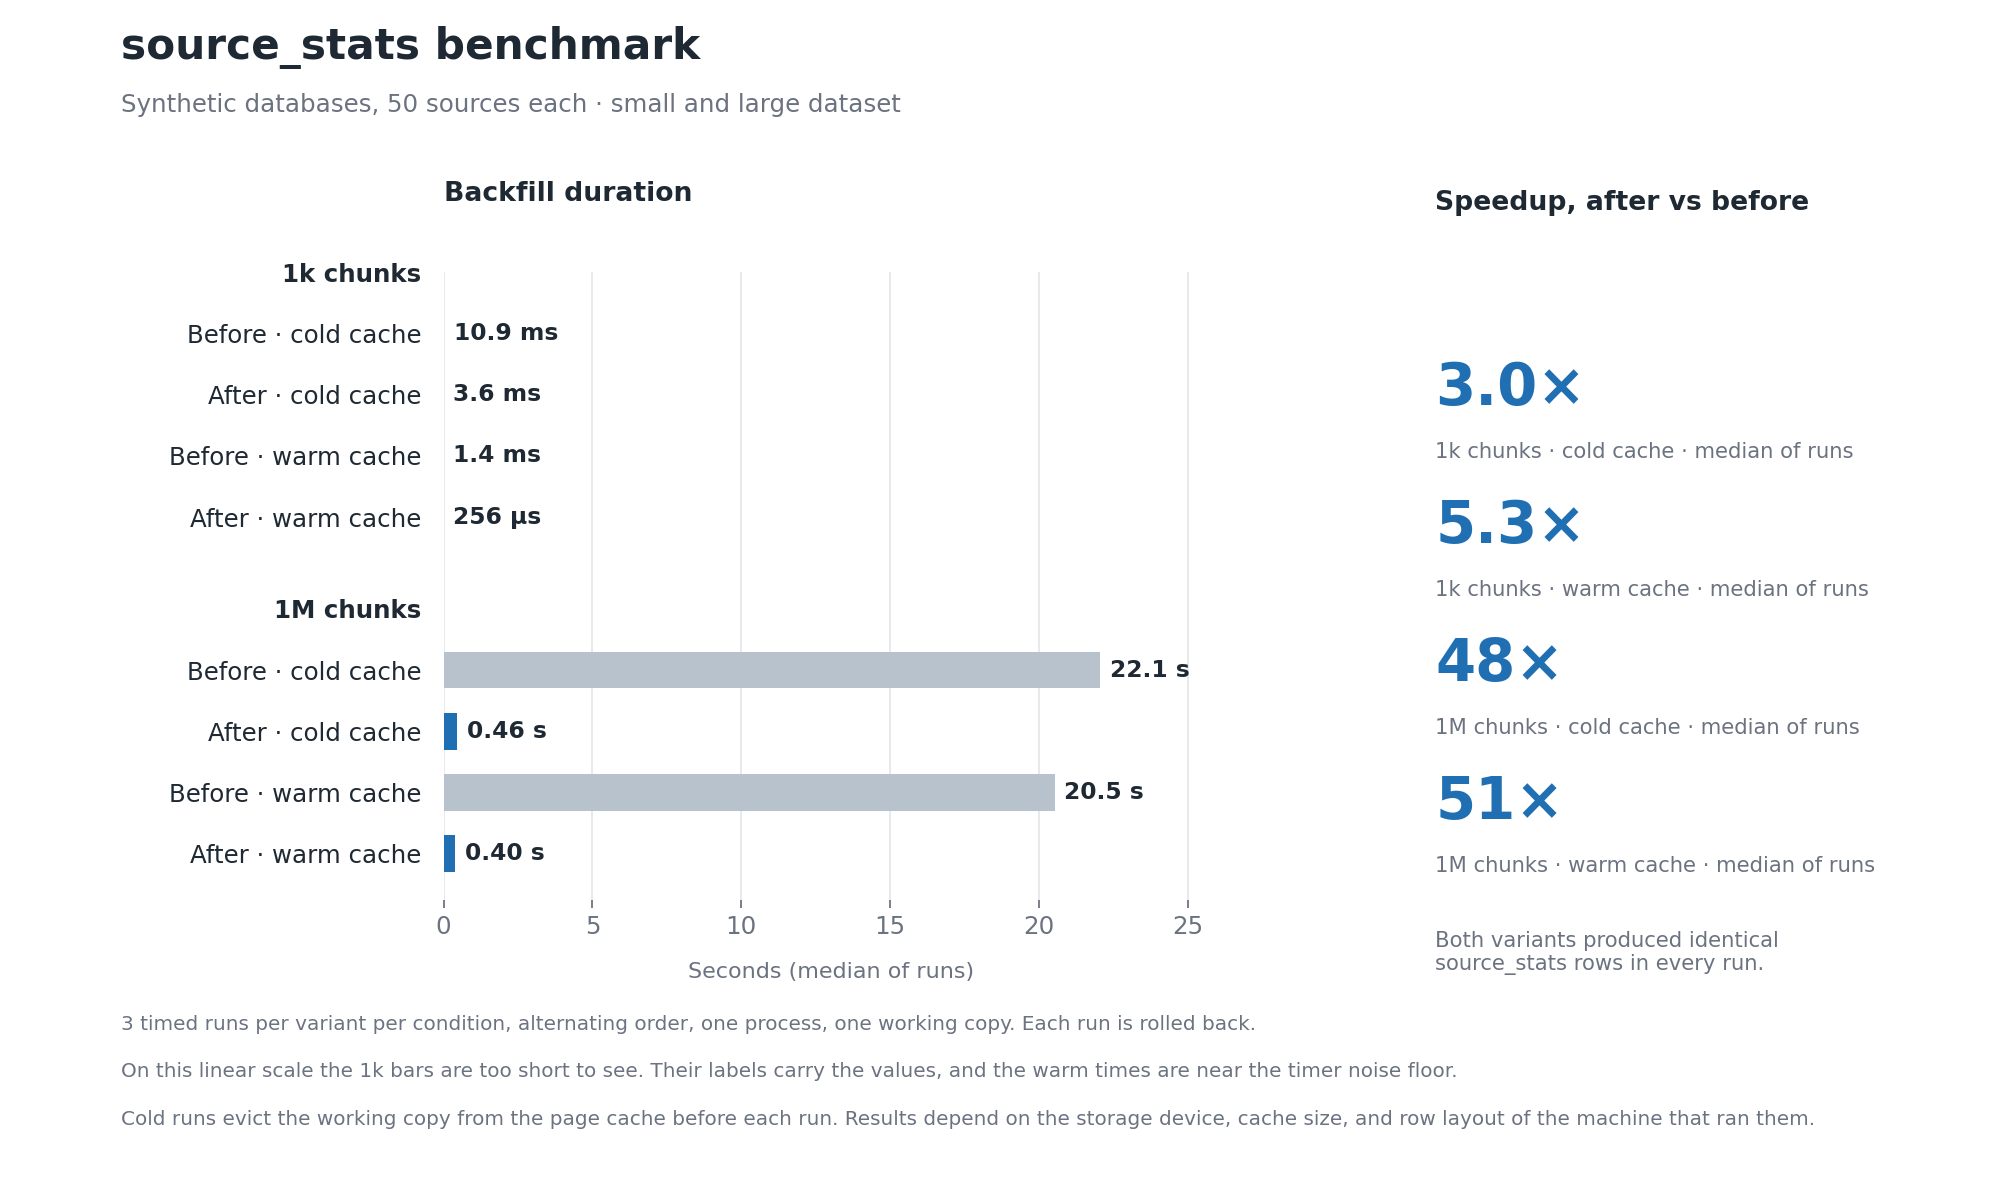
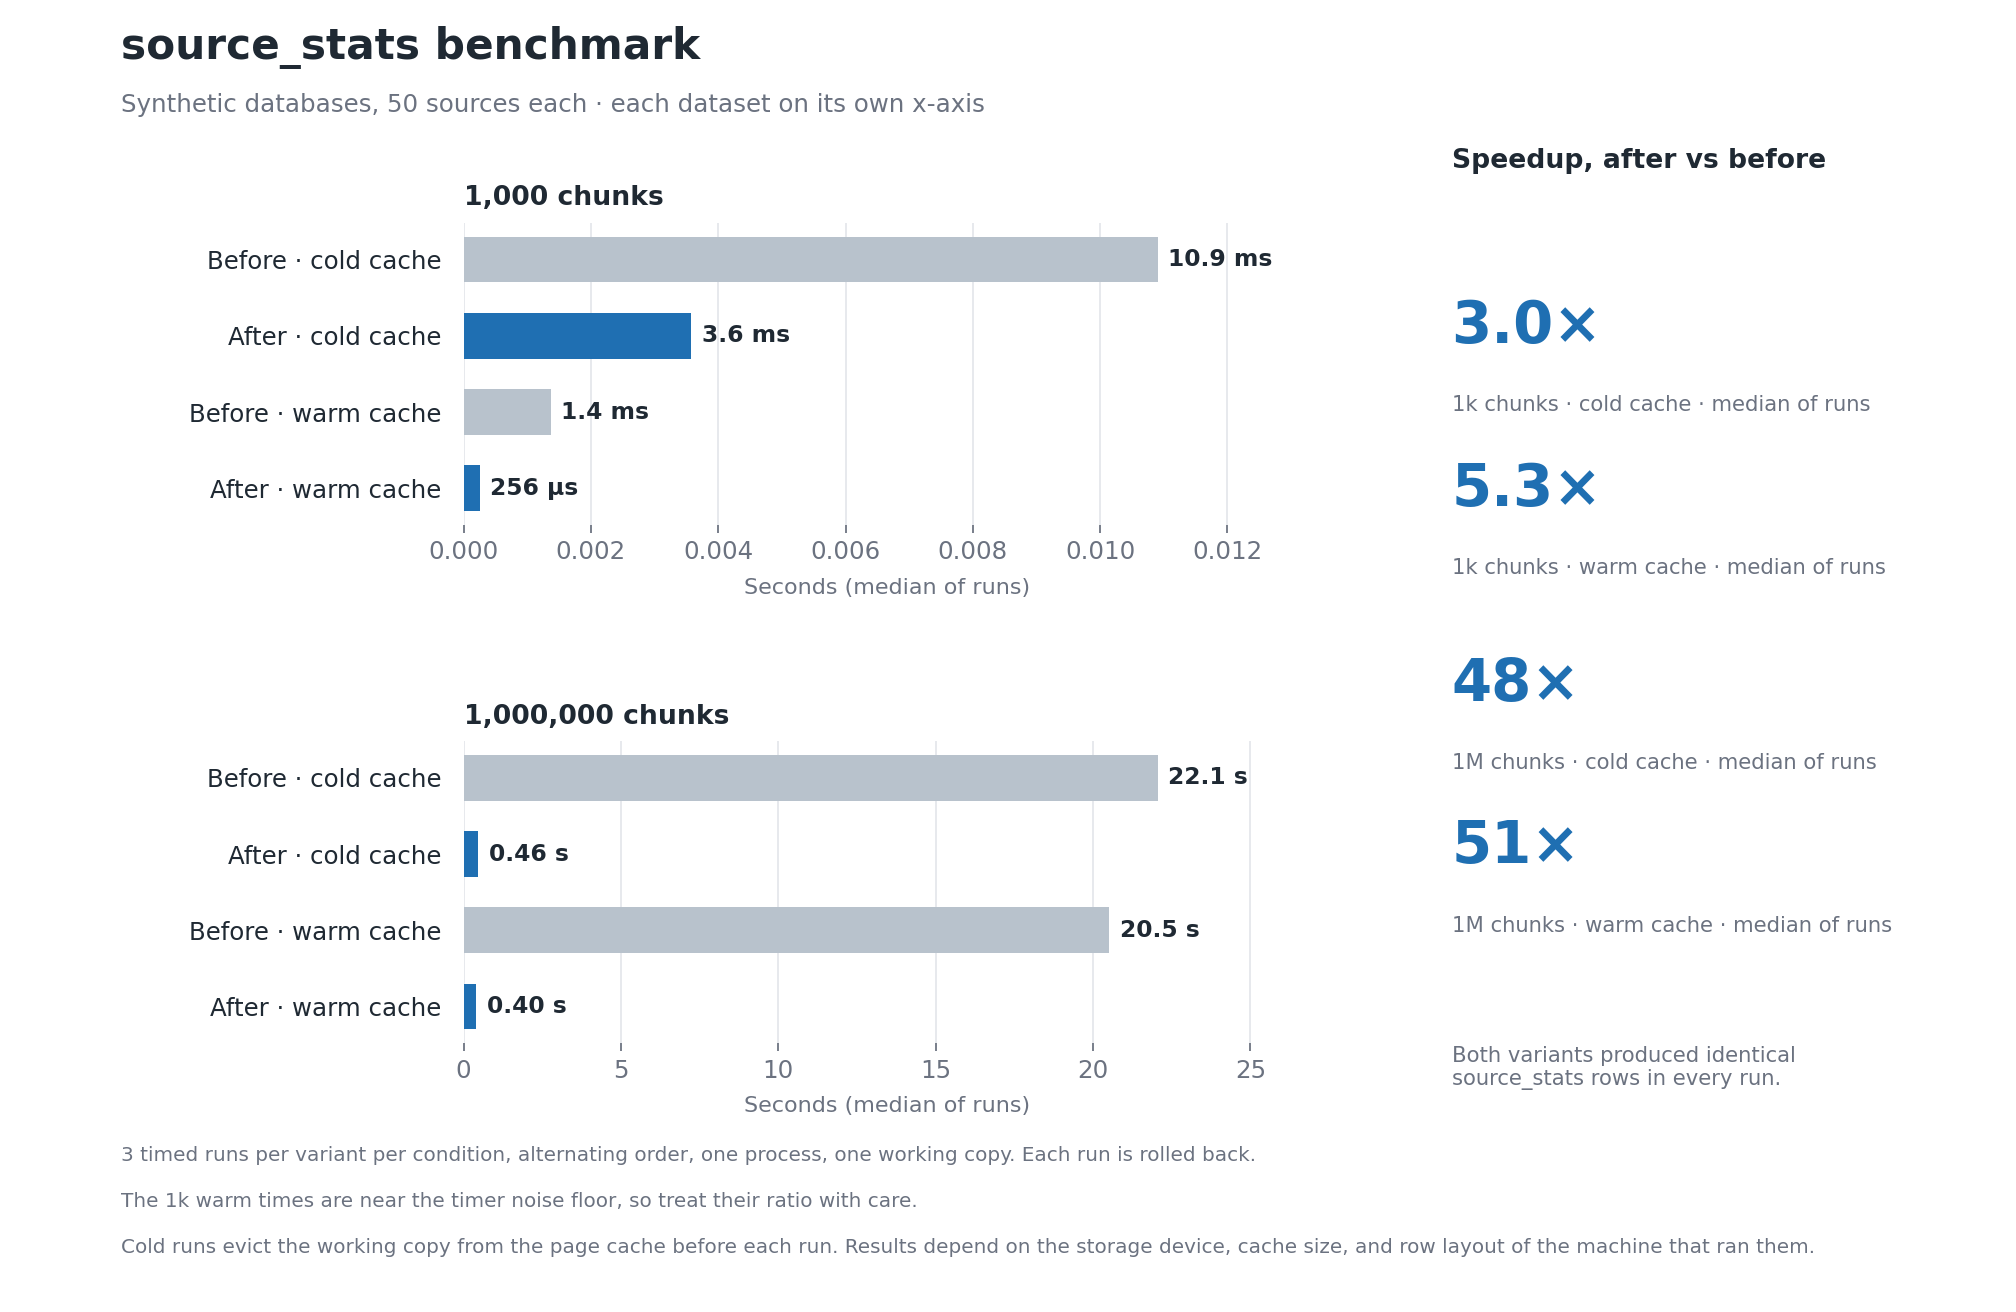
docs: give each benchmark dataset its own x-axis
The 1k and 1M chunk datasets are drawn in separate panels, so the millisecond
bars are readable without shrinking the second-scale bars.

diff --git a/benchmarks/source-stats-backfill/make_chart.py b/benchmarks/source-stats-backfill/make_chart.py
@@ -1,9 +1,9 @@
 """Render source-stats-backfill.png from results.json.
 
+Each dataset gets its own panel and its own linear x-axis.
 Usage: python3 make_chart.py   (writes source-stats-backfill.png next to this file)
 """
 import json
-import math
 from pathlib import Path
 
 import matplotlib
@@ -32,90 +32,90 @@ order = [k for k in ("small", "large") if k in datasets]
 runs = datasets[order[0]]["conditions"]["cold"]["runs_per_variant"]
 sources = datasets[order[0]]["dataset"]["sources"]
 
-rows = []  # (label, median seconds or None for a header, color, group)
-for key in order:
+
+def fmt(v):
+    if v >= 10:
+        return f"{v:.1f} s"
+    if v >= 0.1:
+        return f"{v:.2f} s"
+    if v >= 0.001:
+        return f"{v * 1000:.1f} ms"
+    return f"{v * 1e6:.0f} µs"
+
+
+def bars_for(key):
     ds = datasets[key]
-    rows.append((DATASET_LABELS.get(key, key), None, None, key))
+    out = []
     for cond in ("cold", "warm"):
         cname = "cold cache" if cond == "cold" else "warm cache"
         variants = ds["conditions"][cond]["variants"]
-        rows.append((f"Before · {cname}", variants["before"]["median"], NEUTRAL, key))
-        rows.append((f"After · {cname}", variants["after"]["median"], ACCENT, key))
+        out.append((f"Before · {cname}", variants["before"]["median"], NEUTRAL))
+        out.append((f"After · {cname}", variants["after"]["median"], ACCENT))
+    return out
 
-fig = plt.figure(figsize=(12.6, 7.4), facecolor='white')
-gs = fig.add_gridspec(1, 2, width_ratios=[1.55, 1], wspace=0.34,
-                      left=0.22, right=0.96, top=0.77, bottom=0.24)
-ax = fig.add_subplot(gs[0, 0])
-ax2 = fig.add_subplot(gs[0, 1])
 
-fig.text(0.06, 0.95, 'source_stats benchmark', fontsize=19, fontweight='bold', color=INK)
-fig.text(0.06, 0.905, f'Synthetic databases, {sources} sources each · small and large dataset',
+def draw(ax, key):
+    bars = bars_for(key)
+    values = [b[1] for b in bars]
+    ax.barh(range(len(bars)), values, height=0.6, color=[b[2] for b in bars], edgecolor='none')
+    ax.invert_yaxis()
+    ax.set_yticks(range(len(bars)), [b[0] for b in bars])
+    ax.tick_params(axis='y', length=0, pad=10)
+    top = max(values)
+    ax.set_xlim(0, top * 1.22)
+    ax.set_xlabel('Seconds (median of runs)', fontsize=10, color=MUTED, labelpad=6)
+    ax.xaxis.grid(True, color=GRID, linewidth=0.8)
+    ax.set_axisbelow(True)
+    for spine in ax.spines.values():
+        spine.set_visible(False)
+    for i, v in enumerate(values):
+        ax.text(v + top * 0.015, i, fmt(v), ha='left', va='center', fontweight='bold', fontsize=10.5)
+    ds = datasets[key]["dataset"]
+    ax.set_title(f"{ds['chunks']:,} chunks",
+                 loc='left', fontsize=12, fontweight='bold', color=INK, pad=8)
+
+
+fig = plt.figure(figsize=(12.6, 8.2), facecolor='white')
+fig.text(0.06, 0.955, 'source_stats benchmark', fontsize=19, fontweight='bold', color=INK)
+fig.text(0.06, 0.915, f'Synthetic databases, {sources} sources each · each dataset on its own x-axis',
          fontsize=11, color=MUTED)
 
-y_positions = []
-y = 0
-prev_group = None
-for label, value, color, group in rows:
-    if prev_group is not None and group != prev_group:
-        y += 0.5  # gap between dataset groups
-    y_positions.append(y)
-    prev_group = group
-    y += 1
+# Two stacked panels on the left, each with its own x-axis
+panel_rects = {
+    order[0]: [0.23, 0.60, 0.42, 0.23],
+    order[-1]: [0.23, 0.205, 0.42, 0.23],
+}
+for key in order:
+    ax = fig.add_axes(panel_rects[key])
+    draw(ax, key)
 
-bars = [(yp, r) for yp, r in zip(y_positions, rows) if r[1] is not None]
-values = [r[1] for _, r in bars]
-ax.barh([yp for yp, _ in bars], values, height=0.6, color=[r[2] for _, r in bars], edgecolor='none')
-ax.invert_yaxis()
-ax.set_yticks(y_positions, [r[0] for r in rows])
-for tick, r in zip(ax.get_yticklabels(), rows):
-    if r[1] is None:
-        tick.set_fontweight('bold')
-        tick.set_color(INK)
-ax.tick_params(axis='y', length=0, pad=10)
-ax.set_xlim(0, max(values) * 1.18)
-ax.set_xlabel('Seconds (median of runs)', fontsize=10, color=MUTED, labelpad=10)
-ax.xaxis.grid(True, color=GRID, linewidth=0.8)
-ax.set_axisbelow(True)
-for spine in ax.spines.values():
-    spine.set_visible(False)
-for (yp, _), v in zip(bars, values):
-    if v >= 10:
-        label = f'{v:.1f} s'
-    elif v >= 0.1:
-        label = f'{v:.2f} s'
-    elif v >= 0.001:
-        label = f'{v * 1000:.1f} ms'
-    else:
-        label = f'{v * 1e6:.0f} µs'
-    ax.text(v + max(values) * 0.015, yp, label, ha='left', va='center', fontweight='bold', fontsize=10.5)
-
-fig.text(0.22, 0.83, 'Backfill duration', fontsize=12, fontweight='bold')
-
+# Right: speedup per dataset and cache condition
+ax2 = fig.add_axes([0.72, 0.215, 0.25, 0.62])
 ax2.set_axis_off()
-ax2.text(0, 1.10, 'Speedup, after vs before', transform=ax2.transAxes,
+ax2.text(0, 1.06, 'Speedup, after vs before', transform=ax2.transAxes,
          fontsize=12, fontweight='bold', ha='left', color=INK)
-panel = []
+entries = []
 for key in order:
     name = DATASET_LABELS.get(key, key)
     for cond in ("cold", "warm"):
         c = datasets[key]["conditions"][cond]
-        panel.append((f"{c['ratio_of_medians']:.0f}×" if c['ratio_of_medians'] >= 10
-                      else f"{c['ratio_of_medians']:.1f}×",
-                      f"{name} · {'cold' if cond == 'cold' else 'warm'} cache · median of runs"))
-positions = [0.86, 0.64, 0.42, 0.20]
-for (big, small_label), ypos in zip(panel, positions):
+        ratio = c["ratio_of_medians"]
+        big = f"{ratio:.0f}×" if ratio >= 10 else f"{ratio:.1f}×"
+        entries.append((big, f"{name} · {'cold' if cond == 'cold' else 'warm'} cache · median of runs"))
+positions = [0.90, 0.70, 0.46, 0.26]
+for (big, label), ypos in zip(entries, positions):
     ax2.text(0, ypos, big, fontsize=26, fontweight='bold', transform=ax2.transAxes, va='top', color=ACCENT)
-    ax2.text(0, ypos - 0.13, small_label, fontsize=9.5, transform=ax2.transAxes, va='top', color=MUTED)
-ax2.text(0, -0.05, 'Both variants produced identical\nsource_stats rows in every run.',
+    ax2.text(0, ypos - 0.12, label, fontsize=9.5, transform=ax2.transAxes, va='top', color=MUTED)
+ax2.text(0, -0.02, 'Both variants produced identical\nsource_stats rows in every run.',
          fontsize=9.5, transform=ax2.transAxes, va='top', color=MUTED)
 
-fig.text(0.06, 0.13,
+fig.text(0.06, 0.115,
          f'{runs} timed runs per variant per condition, alternating order, one process, one working copy. '
          'Each run is rolled back.', fontsize=9, color=MUTED)
-fig.text(0.06, 0.09,
-         'On this linear scale the 1k bars are too short to see. Their labels carry the values, and the warm times are near the timer noise floor.',
+fig.text(0.06, 0.08,
+         'The 1k warm times are near the timer noise floor, so treat their ratio with care.',
          fontsize=9, color=MUTED)
-fig.text(0.06, 0.05,
+fig.text(0.06, 0.045,
          'Cold runs evict the working copy from the page cache before each run. '
          'Results depend on the storage device, cache size, and row layout of the machine that ran them.',
          fontsize=9, color=MUTED)
